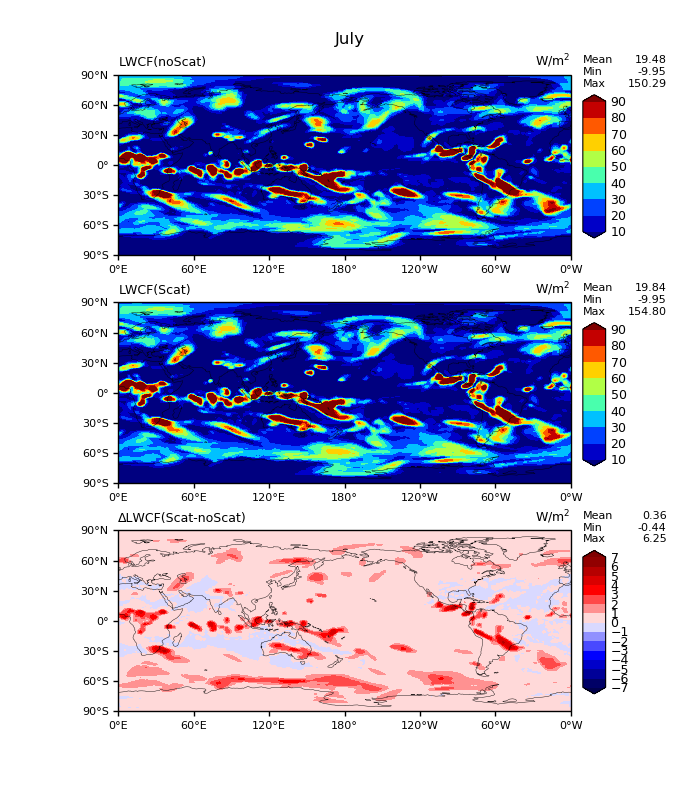
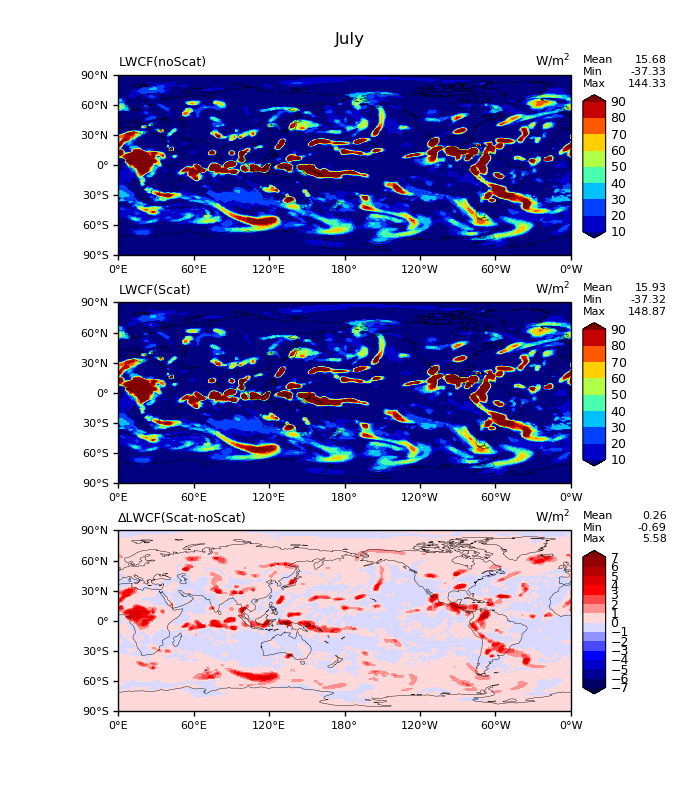
test

diff --git a/d1_lon_lat_contour_model_vs_model_sgl.py b/d1_lon_lat_contour_model_vs_model_sgl.py
@@ -35,8 +35,8 @@ fpath_exp='/global/cscratch1/sd/xianwen/E3SM_simulations/AMIP_RRTMG_UMRad_scat_o
 #f1=fpath_ctl+"E3SMv2_offline_ICEFLAG1_full2_noEmis_climo_ANN.nc"
 #f2=fpath_exp+"E3SMv2_offline_ICEFLAG1_full2_noEmis_climo_ANN.nc"
 #f1=fpath_ctl+"E3SM_v2_alpha_AMIP_RRTMGP.ne30_ne30.cori-knl.cam.h0.0001-01-01-00000.nc"
-f1=fpath_ctl+"AMIP_RRTMG_UMRad_scat_offline.ne30_ne30.cori-knl.cam.h0.2000-01-03-00000.nc"
-f2=fpath_exp+"AMIP_RRTMG_UMRad_scat_offline.ne30_ne30.cori-knl.cam.h0.2000-01-03-00000.nc"
+f1=fpath_ctl+"AMIP_RRTMG_UMRad_scat_offline.ne30_ne30.cori-knl.cam.h0.2000-01-01-00000.nc"
+f2=fpath_exp+"AMIP_RRTMG_UMRad_scat_offline.ne30_ne30.cori-knl.cam.h0.2000-01-01-00000.nc"
 #f1=fpath_ctl+"CMIP_RRTMG_UMRad_abs.ne30_ne30.cori-knl.cam.h0.2000-01.nc"
 #f2=fpath_exp+"CMIP_RRTMG_UMRad_scat.ne30_ne30.cori-knl.cam.h0.2000-01.nc"
 
